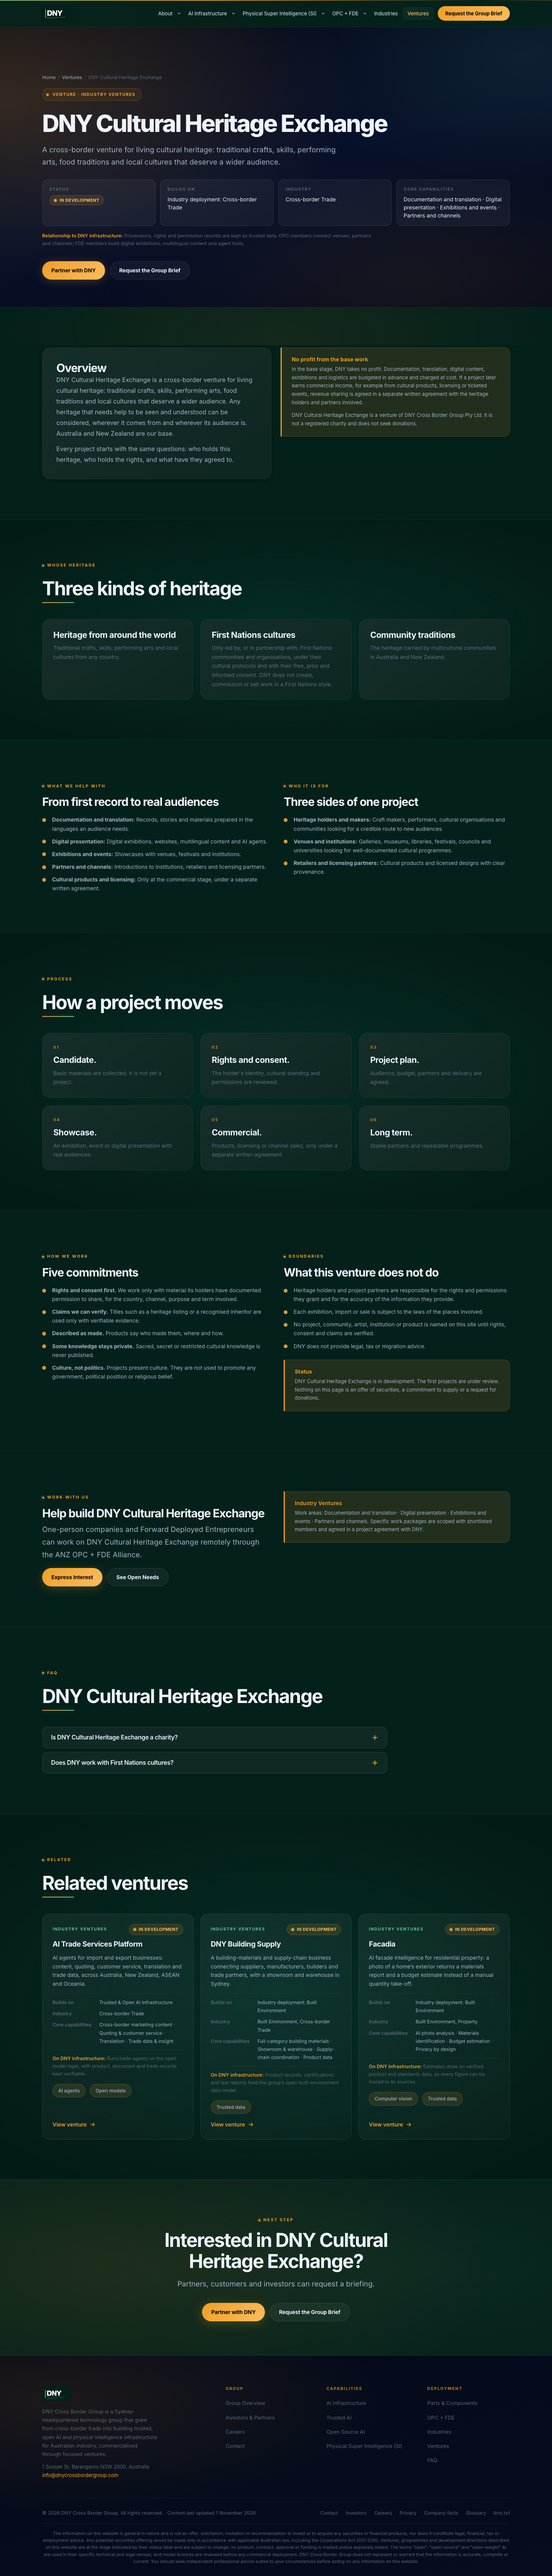
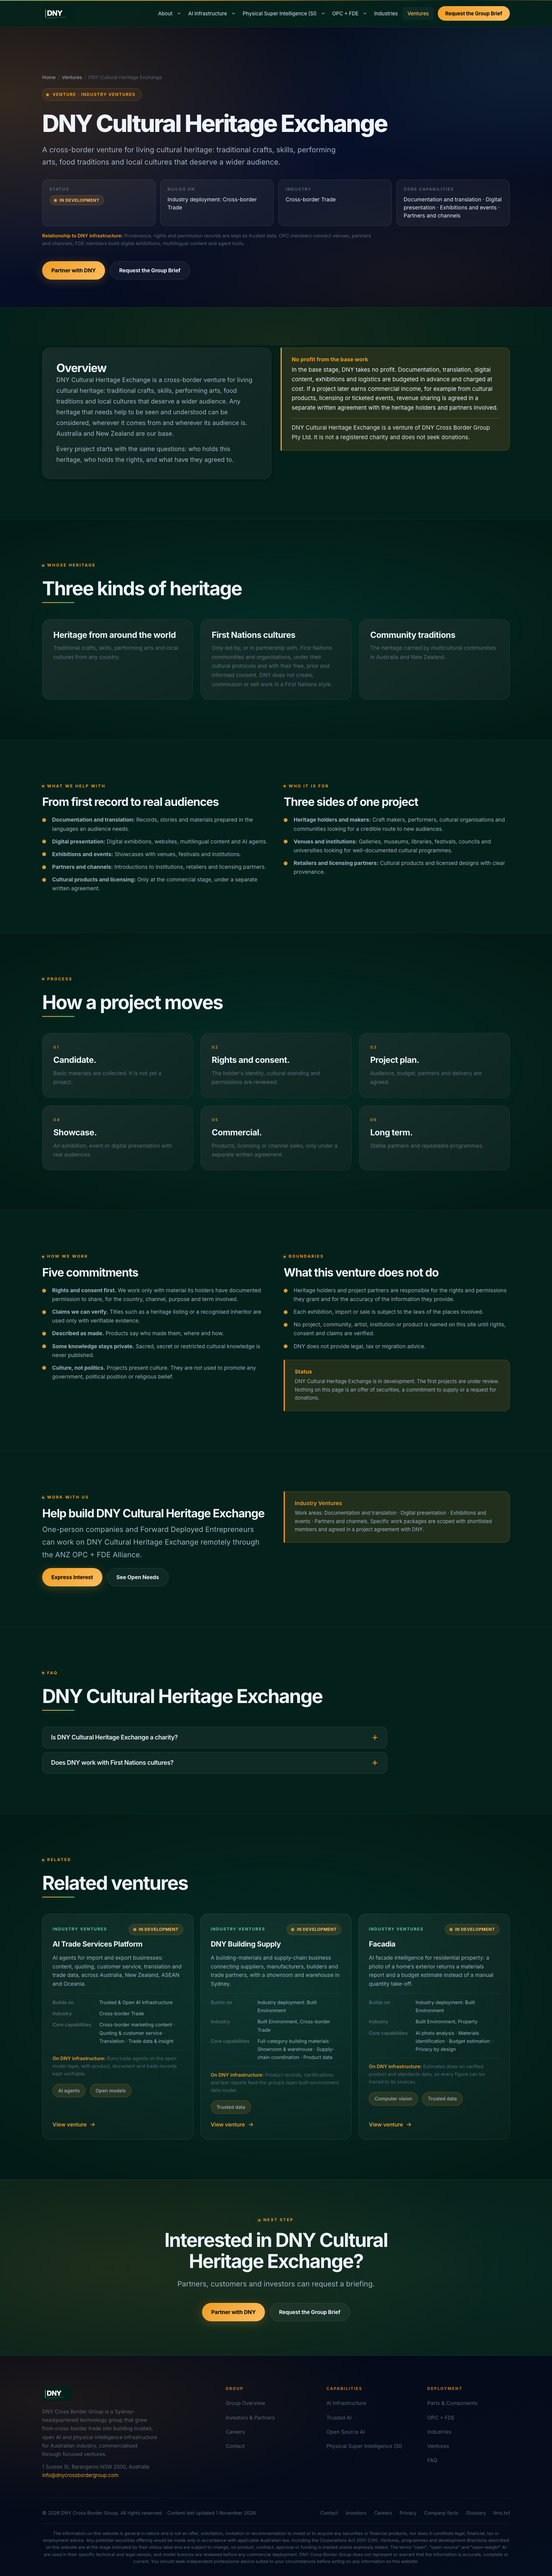
Heritage venture: fine print sizing

Changed region(s): [[0.5, 0.1245, 0.9375, 0.1867]]

diff --git a/public/assets/css/group.css b/public/assets/css/group.css
@@ -612,7 +612,7 @@ h1, h2 { text-wrap: balance; }
    understands, and the identity line under it has to stay easy to read rather than fade. */
 .heritage-note { border-left: 3px solid var(--gold); background: rgba(239, 159, 39, 0.14); }
 .heritage-note p { font-size: 15px; line-height: 1.65; color: var(--t1); }
-.heritage-fine {
+.heritage-note .heritage-fine {
   margin-top: 14px; padding-top: 12px; border-top: 1px solid rgba(239, 159, 39, 0.35);
   font-size: 13.5px; line-height: 1.55; color: var(--t1); opacity: .92;
 }
